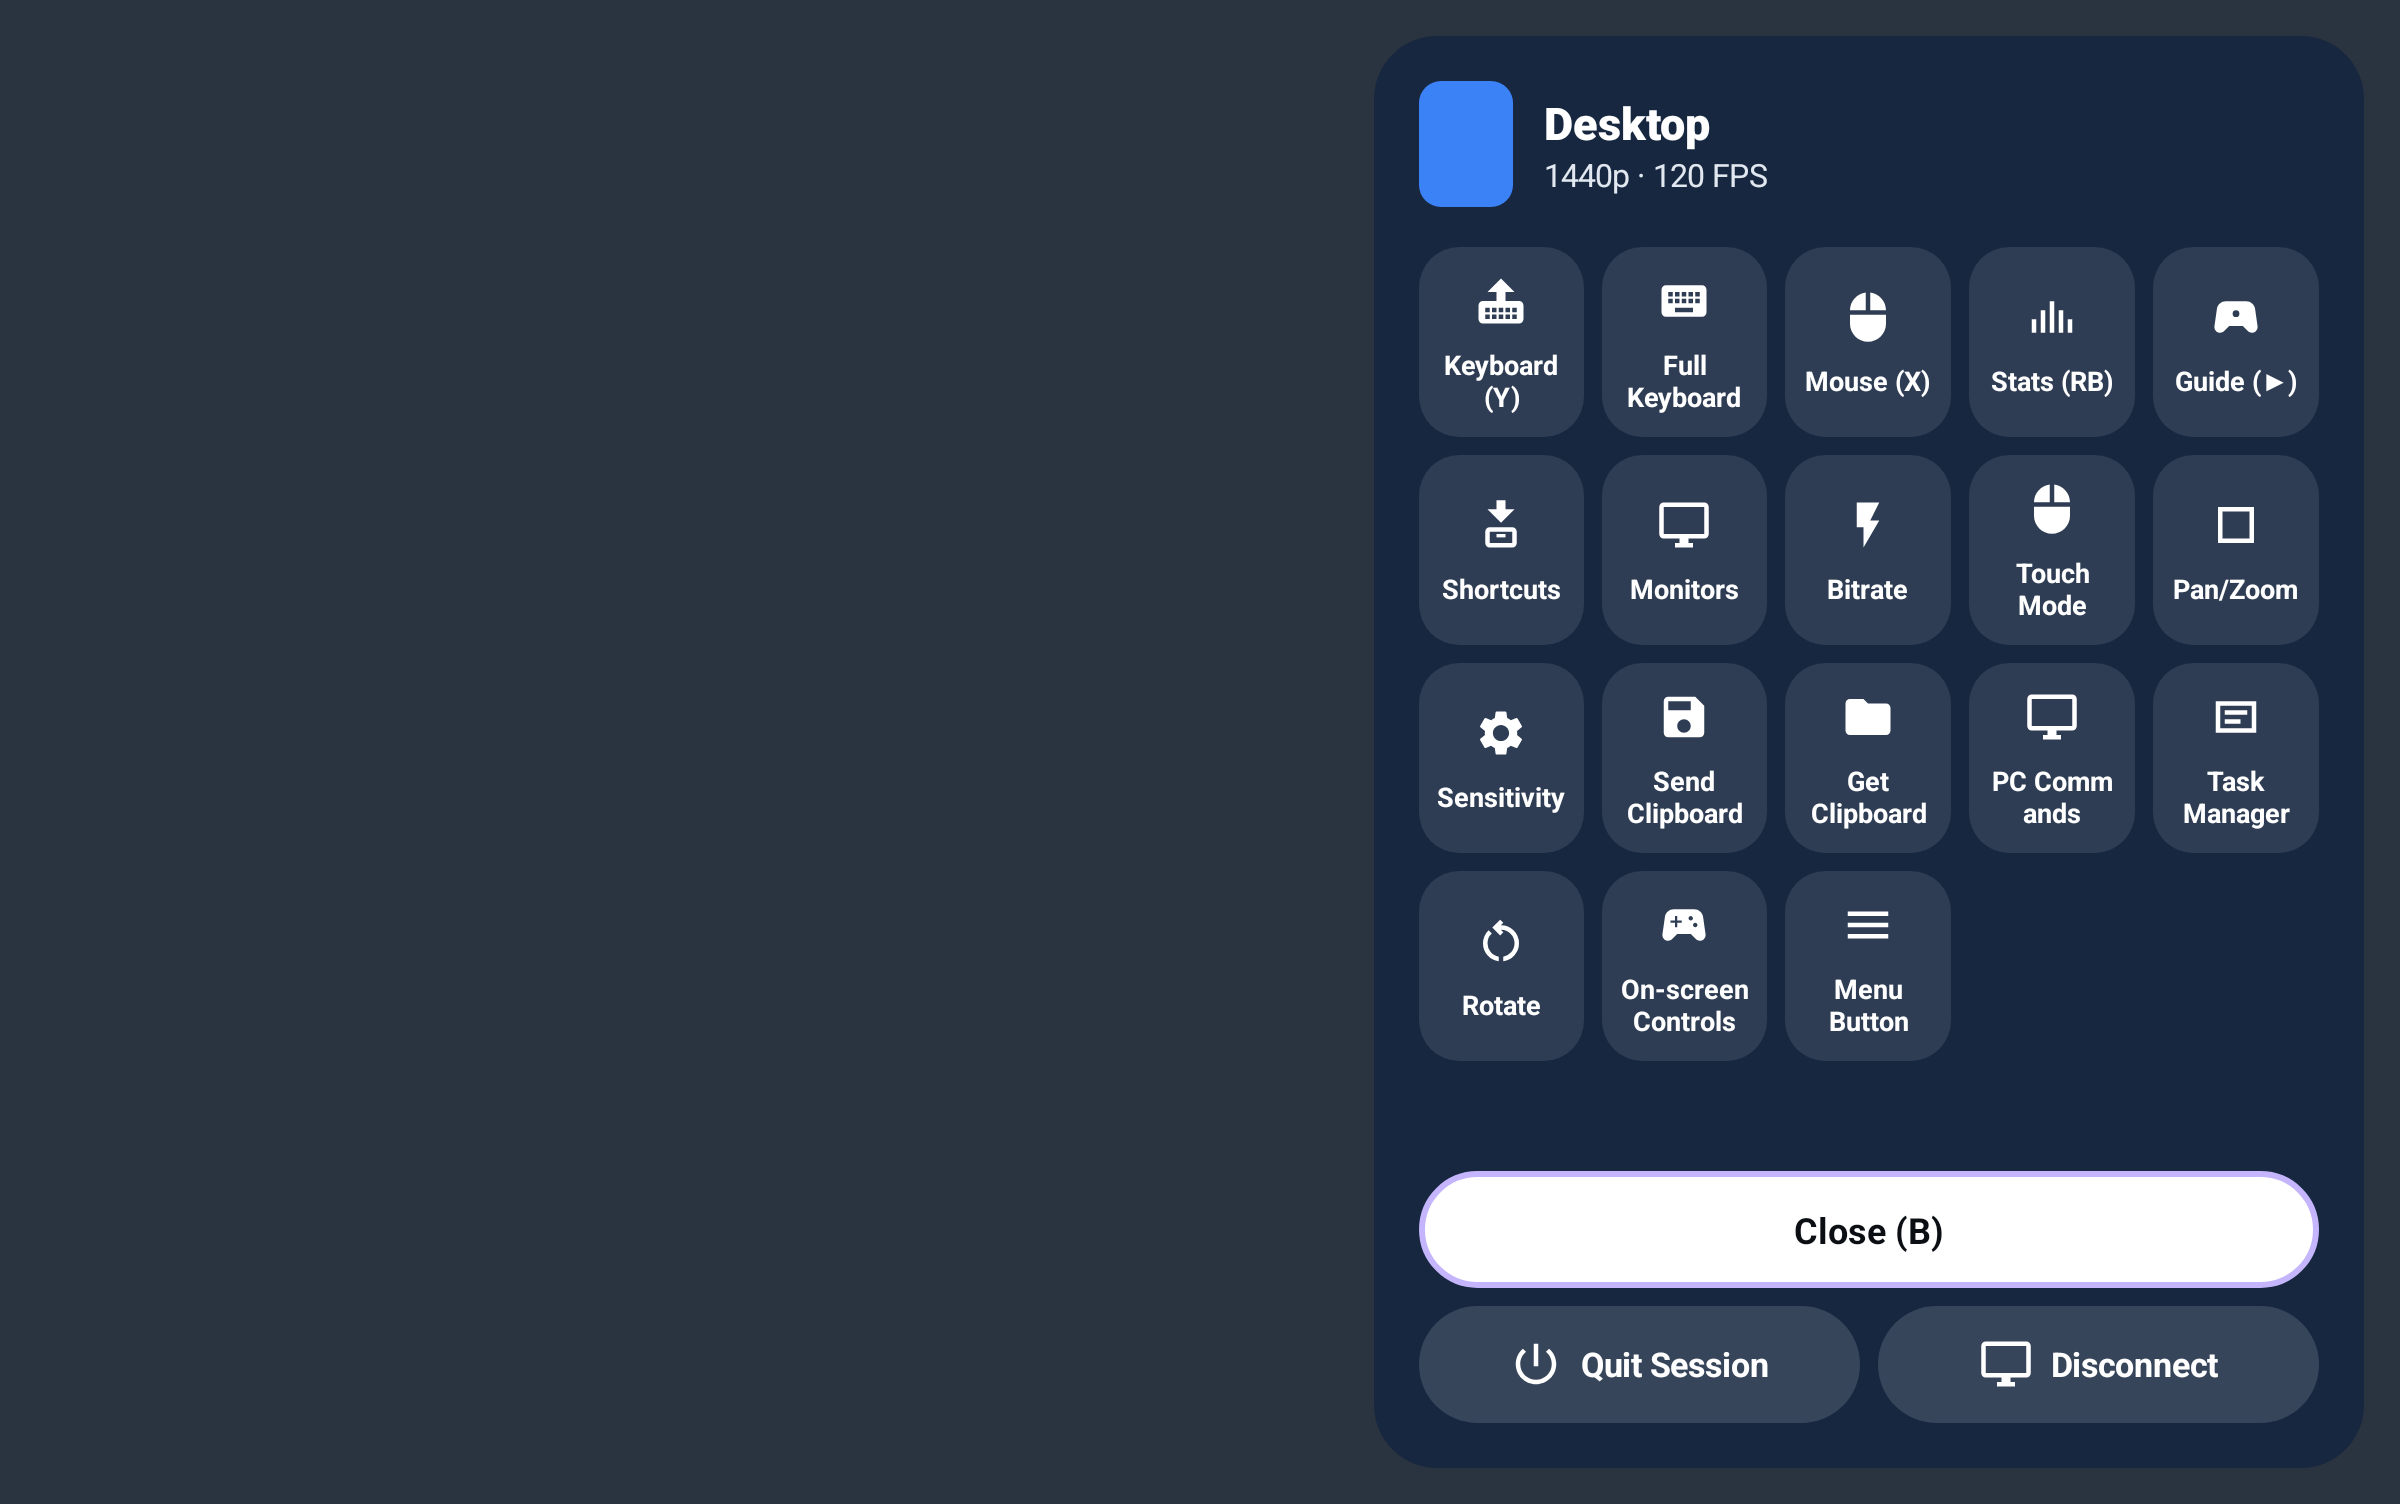
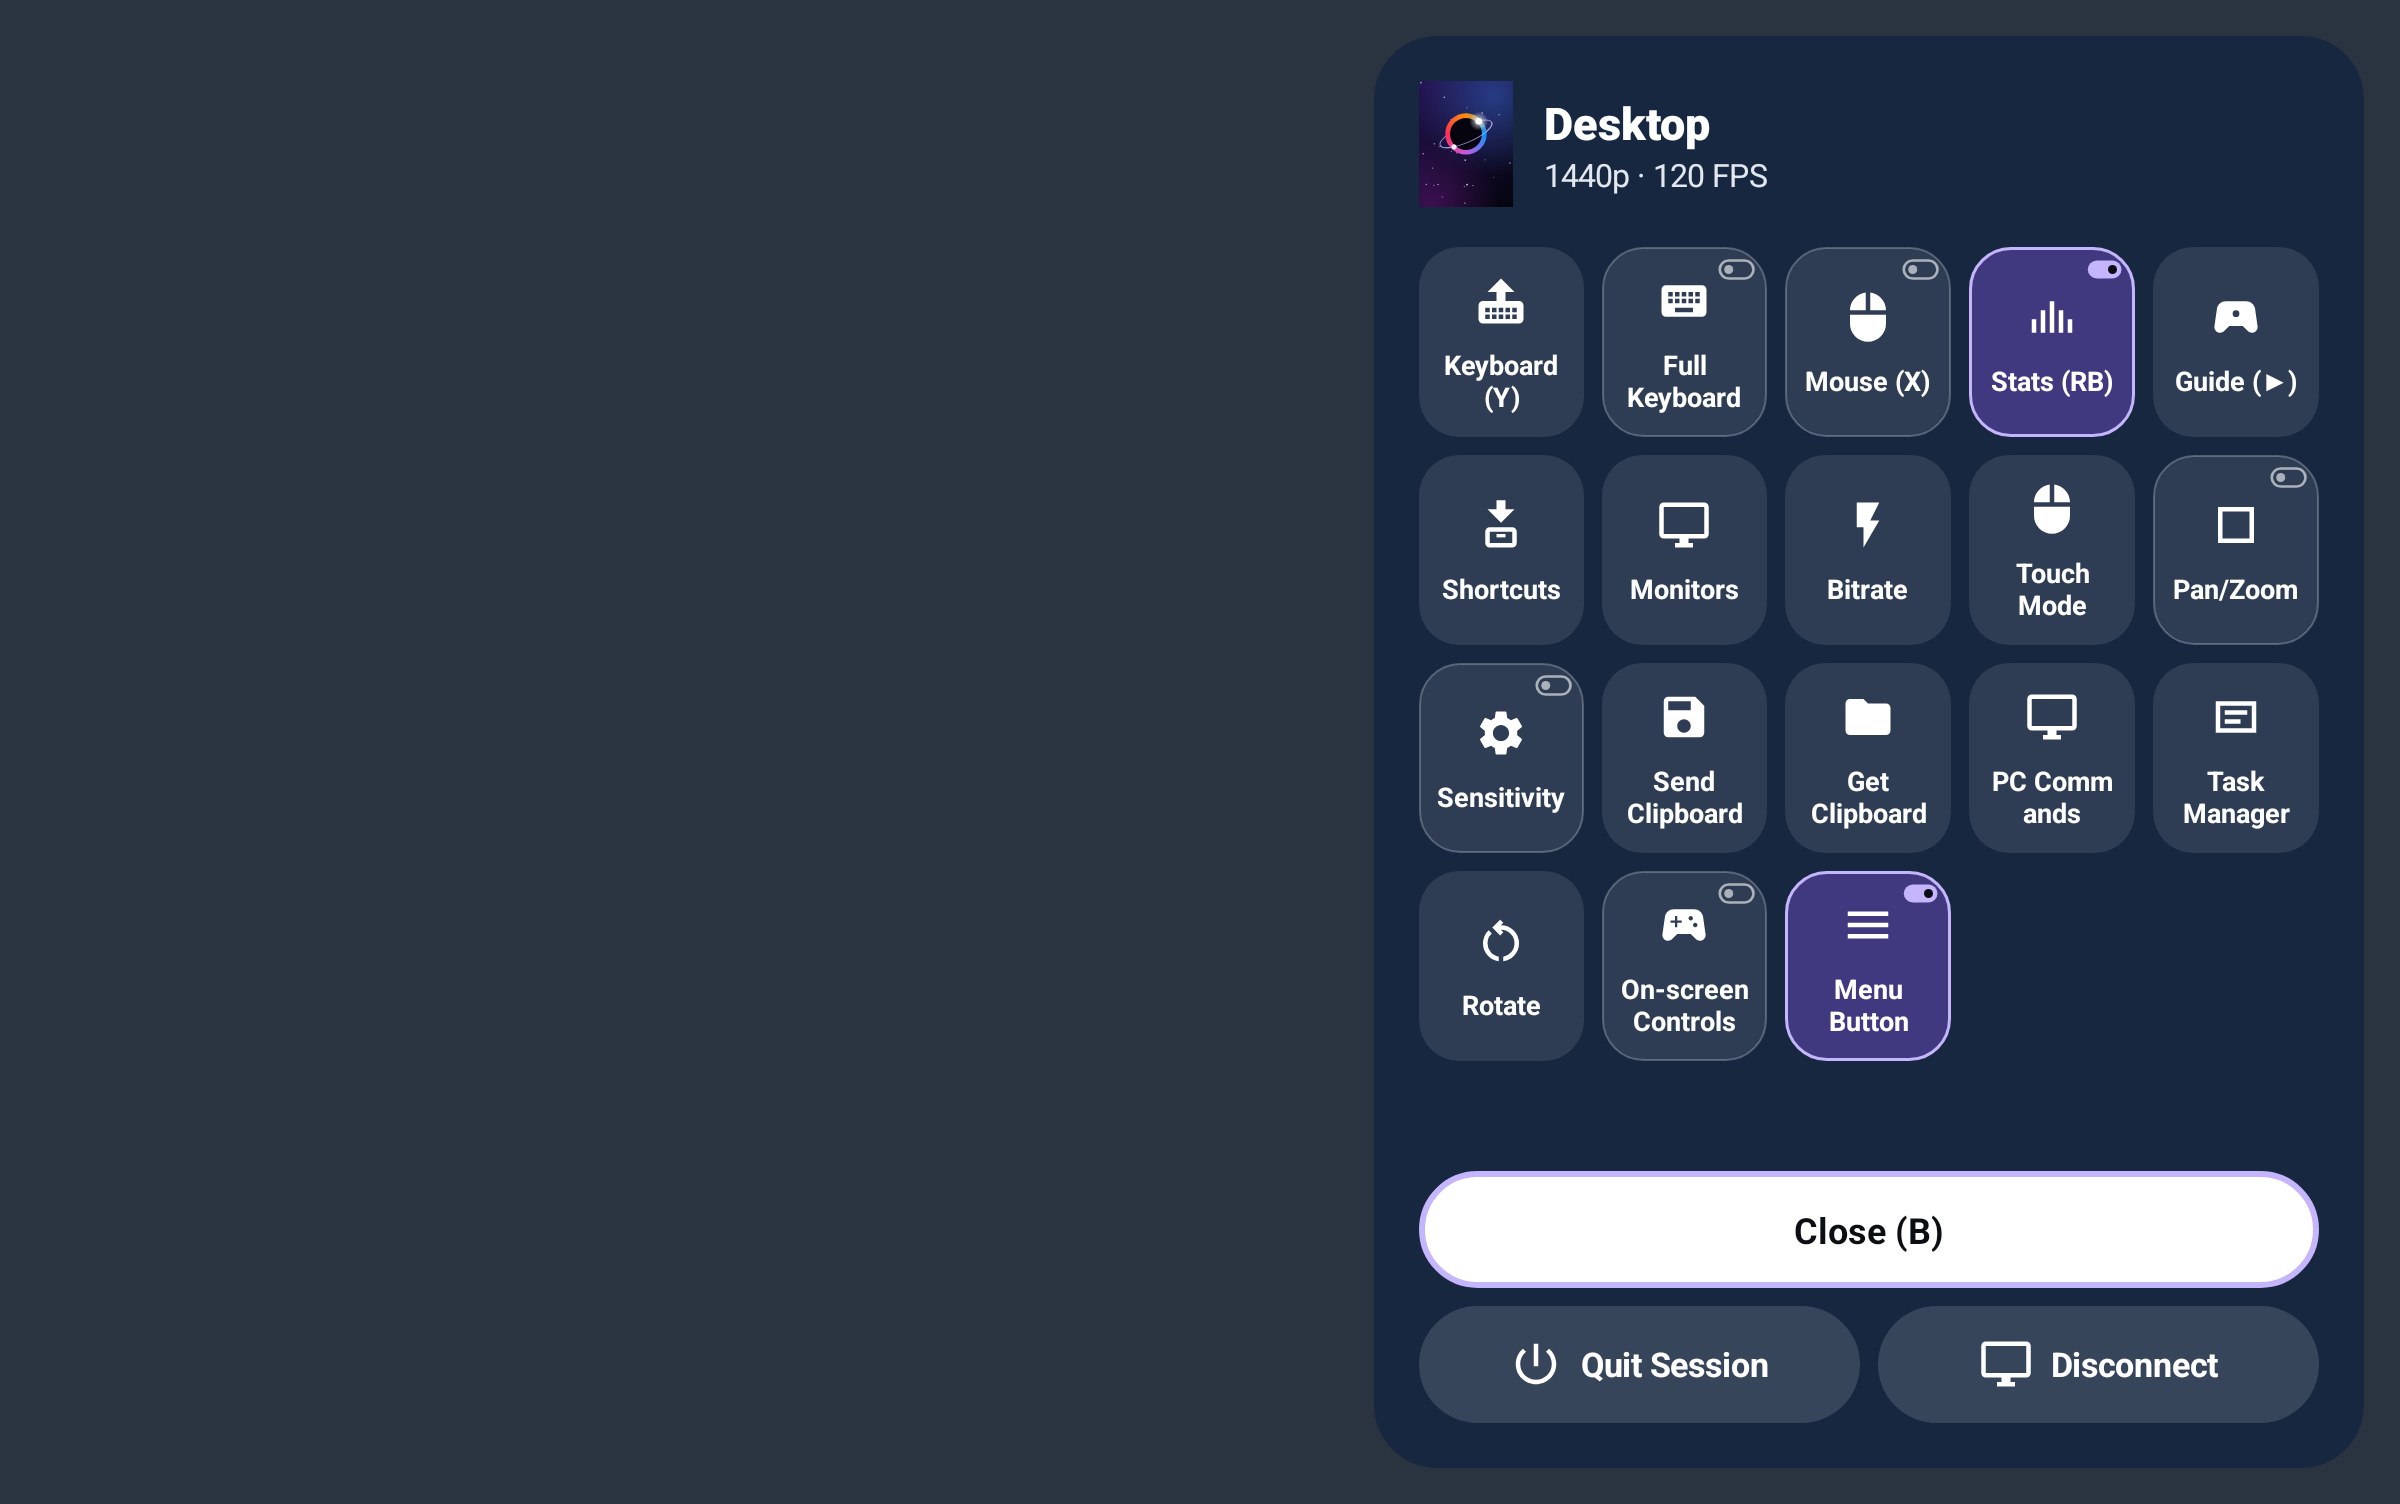
Menu header cover, tidier switches, real Aniimo screenshots
- The menu's header shows the game's cached cover, or the Starwire tile
- Smaller switches tucked into the tile corner, clear of the icons
- README: gameplay and menu screenshots from the tablet (account ID
  blurred), refreshed renders, and the toggle switches mentioned
- Roadmap: launch feedback items, and why microphone support waits

diff --git a/app/src/main/java/com/limelight/Game.java b/app/src/main/java/com/limelight/Game.java
@@ -488,6 +488,7 @@ public class Game extends Activity implements SurfaceHolder.Callback,
         overlayMenuView.setGameInfo(appName,
                 getString(R.string.cg_chip_resolution, prefConfig.height, prefConfig.fps),
                 CoverGlow.rememberedTint(this, getIntent().getStringExtra(EXTRA_PC_UUID), appId));
+        overlayMenuView.setCover(menuCover(getIntent().getStringExtra(EXTRA_PC_UUID), appId, appName));
 
         X509Certificate serverCert = null;
         try {
@@ -3920,6 +3921,33 @@ public class Game extends Activity implements SurfaceHolder.Callback,
                         .show();
             });
         }).start();
+    }
+
+    // The menu header's picture: the game's box art from the app list's cache, or the Starwire
+    // tile for Desktop and games without art (as on the game screen)
+    private android.graphics.drawable.Drawable menuCover(String pcUuid, int appId, String appName) {
+        if (pcUuid == null || com.limelight.ui.AppIcons.useIcon(this, appName)) {
+            return com.limelight.ui.AppIcons.tile(this, appName);
+        }
+        java.io.File file = com.limelight.utils.CacheHelper.openPath(false, getCacheDir(), "boxart", pcUuid, appId + ".png");
+        if (file.exists()) {
+            android.graphics.BitmapFactory.Options options = new android.graphics.BitmapFactory.Options();
+            options.inJustDecodeBounds = true;
+            android.graphics.BitmapFactory.decodeFile(file.getPath(), options);
+            // The host's plain default image (GFE sizes) counts as no art
+            boolean placeholder = (options.outWidth == 628 && options.outHeight == 888)
+                    || (options.outWidth == 130 && options.outHeight == 180);
+            if (!placeholder && options.outWidth > 0) {
+                // Small enough for the 42dp header
+                options.inJustDecodeBounds = false;
+                options.inSampleSize = Math.max(1, options.outWidth / 128);
+                android.graphics.Bitmap bitmap = android.graphics.BitmapFactory.decodeFile(file.getPath(), options);
+                if (bitmap != null) {
+                    return new android.graphics.drawable.BitmapDrawable(getResources(), bitmap);
+                }
+            }
+        }
+        return com.limelight.ui.AppIcons.tile(this, appName);
     }
 
     @SuppressLint("ClickableViewAccessibility")

diff --git a/app/src/main/java/com/limelight/ui/overlay/OverlayMenuView.java b/app/src/main/java/com/limelight/ui/overlay/OverlayMenuView.java
@@ -3,6 +3,8 @@ package com.limelight.ui.overlay;
 import android.content.Context;
 import android.graphics.Typeface;
 import android.graphics.drawable.GradientDrawable;
+import android.graphics.drawable.Drawable;
+import android.widget.ImageView;
 import android.os.Build;
 import android.text.TextUtils;
 import android.util.AttributeSet;
@@ -137,7 +139,7 @@ public class OverlayMenuView extends LinearLayout {
     private static final int MONITOR_COUNT = 6;
 
     private GradientDrawable sheetBackground;
-    private View coverSwatch;
+    private ImageView coverSwatch;
     private TextView titleView;
     private TextView detailView;
     private ScrollView gridScroll;
@@ -232,7 +234,10 @@ public class OverlayMenuView extends LinearLayout {
         LinearLayout header = new LinearLayout(context);
         header.setOrientation(LinearLayout.HORIZONTAL);
         header.setGravity(Gravity.CENTER_VERTICAL);
-        coverSwatch = new View(context);
+        // The game's cover (or a swatch of its colour until one is set), with rounded corners
+        coverSwatch = new ImageView(context);
+        coverSwatch.setScaleType(ImageView.ScaleType.CENTER_CROP);
+        coverSwatch.setClipToOutline(true);
         header.addView(coverSwatch, new LinearLayout.LayoutParams(dp(42), dp(56)));
 
         LinearLayout texts = new LinearLayout(context);
@@ -303,6 +308,11 @@ public class OverlayMenuView extends LinearLayout {
         swatch.setCornerRadius(dp(10));
         swatch.setColor(tint);
         coverSwatch.setBackground(swatch);
+    }
+
+    /** The game's cover for the header; null keeps the plain colour swatch. */
+    public void setCover(Drawable cover) {
+        coverSwatch.setImageDrawable(cover);
     }
 
     @Override

diff --git a/app/src/main/java/com/limelight/ui/overlay/OverlayMenuButton.java b/app/src/main/java/com/limelight/ui/overlay/OverlayMenuButton.java
@@ -222,11 +222,12 @@ public class OverlayMenuButton extends LinearLayout {
         // A small switch in the top corner: an outline with the knob at the start when off,
         // filled with the knob at the end when on
         float d = getResources().getDisplayMetrics().density;
-        float w = 20 * d, h = 11 * d, inset = 9 * d;
+        // Small and tucked into the corner, clear of the centred icon
+        float w = 15 * d, h = 8 * d, inset = 6 * d;
         float left = getLayoutDirection() == LAYOUT_DIRECTION_RTL ? inset : getWidth() - inset - w;
         switchTrack.set(left, inset, left + w, inset + h);
         int ink = isSelected ? DARK : Color.WHITE;
-        float knobRadius = h / 2 - 2.5f * d;
+        float knobRadius = h / 2 - 2f * d;
         boolean knobAtEnd = isOn != (getLayoutDirection() == LAYOUT_DIRECTION_RTL);
         float knobX = knobAtEnd ? switchTrack.right - h / 2 : switchTrack.left + h / 2;
 
@@ -238,7 +239,7 @@ public class OverlayMenuButton extends LinearLayout {
         }
         else {
             switchPaint.setStyle(Paint.Style.STROKE);
-            switchPaint.setStrokeWidth(1.5f * d);
+            switchPaint.setStrokeWidth(1.2f * d);
             switchPaint.setColor((ink & 0x00FFFFFF) | 0x99000000);
             canvas.drawRoundRect(switchTrack, h / 2, h / 2, switchPaint);
             switchPaint.setStyle(Paint.Style.FILL);

diff --git a/app/src/androidTest/java/com/limelight/ui/CoverGlowTest.java b/app/src/androidTest/java/com/limelight/ui/CoverGlowTest.java
@@ -174,6 +174,19 @@ public class CoverGlowTest {
             params.setMargins((int) (16 * d), (int) (16 * d), (int) (16 * d), (int) (16 * d));
             root.addView(menu, params);
             menu.setGameInfo("Desktop", "1440p · 120 FPS", AppIcons.accentFor("Desktop"));
+            menu.setCover(AppIcons.tile(context, "Desktop"));
+            // Stats and the menu button switched on, to show both looks of a toggle
+            menu.setMenuActionListener((com.limelight.ui.overlay.OverlayMenuView.MenuActionListener) java.lang.reflect.Proxy.newProxyInstance(
+                    getClass().getClassLoader(),
+                    new Class<?>[] {com.limelight.ui.overlay.OverlayMenuView.MenuActionListener.class},
+                    (proxy, method, args) -> {
+                        if (method.getName().equals("isToggleOn")) {
+                            int toggle = (Integer) args[0];
+                            return toggle == com.limelight.ui.overlay.OverlayMenuView.TOGGLE_STATS
+                                    || toggle == com.limelight.ui.overlay.OverlayMenuView.TOGGLE_FLOATING_BUTTON;
+                        }
+                        return null;
+                    }));
             menu.buildMenu();
             menu.setVisibility(View.VISIBLE);
             // Close selected, as when the menu opens

diff --git a/README.md b/README.md
@@ -12,7 +12,7 @@
 
 <img src="docs/cover_glow_home.png" width="820" alt="Starwire's game screen: Desktop selected and shown large with its stream settings and a Play button, and the PC's apps below as icon tiles, each in its own colour">
 
-<sub>The whole screen picks up the colour of whatever you select. Games show their own cover art; apps like Desktop or Steam Big Picture get their own icons.</sub>
+<sub>The whole screen picks up the colour of whatever you select. Games show their own cover art; Desktop and games without art get the Starwire tile, and apps like Steam Big Picture get their own icons.</sub>
 
 </div>
 
@@ -63,7 +63,8 @@ name.
 ### 🎮 Everything during a stream, one tap away
 Open the menu with the floating button, a three-finger tap or by holding Select on a
 controller. Keyboard, full on-screen keyboard, mouse modes, zoom, key shortcuts, monitor
-switching, bitrate, clipboard: it's all in one grid, and works with a controller too.
+switching, bitrate, clipboard: it's all in one grid, and works with a controller too. Anything
+that turns on and off has a small switch, so you can see what's on at a glance.
 
 ### ⚡ Fast and smooth
 A Vulkan renderer, the PyroWave codec, and low-latency options like Warp Drive, Fast V-Sync and
@@ -73,7 +74,7 @@ async decoding for when every millisecond counts.
 <td width="50%" valign="top">
 
 <img src="docs/stream_menu_aniimo.jpg" alt="The in-stream menu open over a game: the game's name, a grid of tools such as Keyboard, Full Keyboard, Mouse, Shortcuts, Monitors and Bitrate, and buttons to close, quit or disconnect">
-<sub>The new in-stream menu over Aniimo. Game screenshot © Pawprint Studio, from its Steam page.</sub>
+<sub>The in-stream menu over Aniimo on my tablet. Stats and the menu button are switched on. Aniimo © Pawprint Studio.</sub>
 
 </td>
 </tr>
@@ -102,6 +103,12 @@ Audio haptics turns a game's bass into vibration on your device or controller.
 </td>
 </tr>
 </table>
+
+<p align="center">
+<img src="docs/aniimo_gameplay.jpg" width="820" alt="Aniimo streaming full screen on a tablet, with a one-line stats readout at the top: 47 Mbps, ping 4 ms, decode 1.2 ms, dropped 0.0%, 160 FPS">
+<br>
+<sub>Aniimo streamed to my RedMagic Astra, with the Lite stats line at the top. Aniimo © Pawprint Studio.</sub>
+</p>
 
 ## Get started
 

diff --git a/ROADMAP.md b/ROADMAP.md
@@ -165,6 +165,13 @@ Also added on request: Warp Drive / Warp 2 frame pacing (from Artemide), Hide PC
 - [x] Larger Starwire wordmark on the home screen
 - [x] Tried on the RedMagic Astra over a live stream: the menu tools work; the last row of the
       menu was hidden by a layout bug, now fixed and covered by a test
+- [x] After launch feedback: a smaller floating button that stays faded until touched; on/off
+      menu tools show a small switch and keep the menu open; a Starwire tile (logo over a
+      starfield) for Desktop and games without cover art, also in the menu's header; Lite stats
+      in plain words (Mbps, Ping, Decode, Dropped, FPS)
+- [ ] Microphone from the device to the PC: two incompatible designs exist (a separate audio
+      channel, and one inside the control connection), each needing a patched Apollo. Waiting
+      for Vibepollo or Apollo to support one
 
 ## Open questions
 
